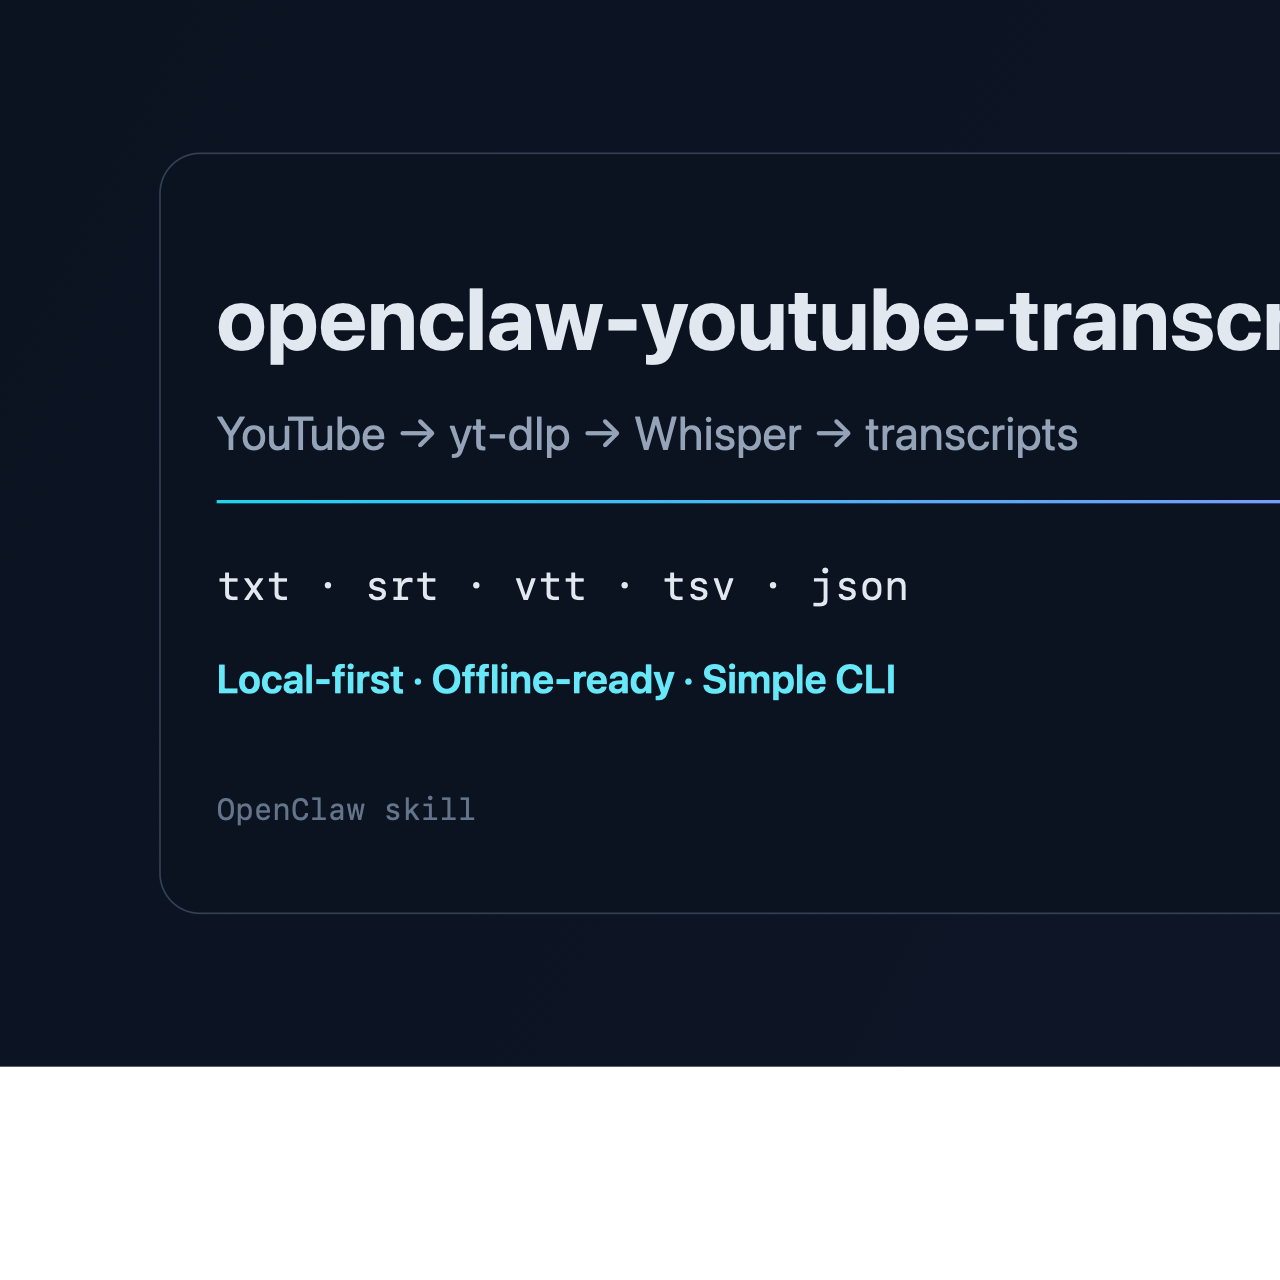
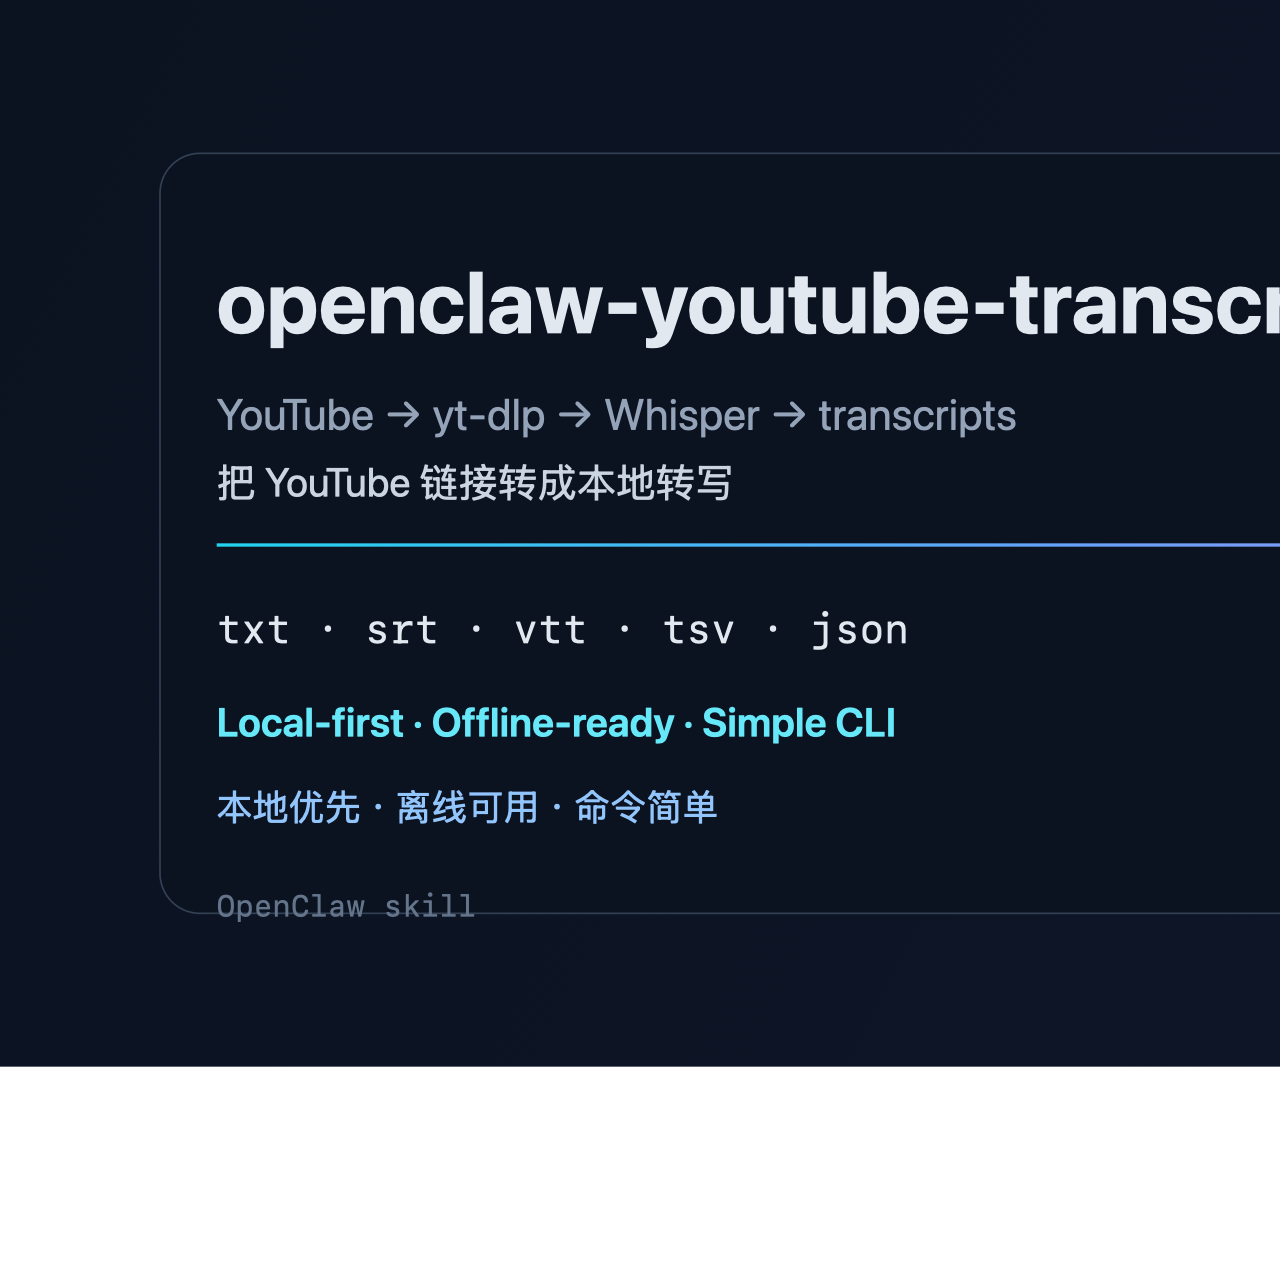
Sanitize example output and update bilingual social preview

diff --git a/examples/example-output.md b/examples/example-output.md
@@ -1,12 +1,12 @@
 # Example output
 
-This page shows a real example of the skill running on a public YouTube video.
+This page shows a **sanitized example** of how the skill organizes files and what a transcript output may look like.
 
 ## Example command
 
 ```bash
 ./skills/youtube-transcribe/scripts/transcribe_youtube.sh \
-  "https://www.youtube.com/watch?v=vimU_EHAuAs" \
+  "https://www.youtube.com/watch?v=EXAMPLE_ID" \
   --lang zh \
   --model small
 ```
@@ -15,7 +15,7 @@ This page shows a real example of the skill running on a public YouTube video.
 
 ```text
 ${HOME}/Documents/youtube-transcripts/
-  比特币现在下结论看大跌为时过早，回踩依旧可能大 [vimU_EHAuAs]/
+  Example Video Title [EXAMPLE_ID]/
     audio/
       audio.m4a
       audio.info.json
@@ -27,21 +27,19 @@ ${HOME}/Documents/youtube-transcripts/
       audio.json
 ```
 
-## Transcript excerpt
+## Example transcript excerpt
 
-Excerpt from `audio.txt`:
+Excerpt from `audio.txt` (illustrative only):
 
-> 大家好,我是依依,現在是新加坡時間早上的8點42分  
-> 比特幣限價位於7萬1000多,這個價格區域位置  
-> 在過去的行情當中,我們都是以看漲為主  
-> 在昨天的視頻當中,我們明確說明了智力選擇性可能回調  
-> 還是說智力繼續開始下跌  
-> 我們要關注周限級別能否站穩這個通道之上  
-> 但是也關鍵的要位於這個72800需求其實點跌破  
-> 說明結構已經轉空,我們發現從昨天的7萬4000多跌下來
+> Hello everyone, welcome back.  
+> In this video we walk through the main idea step by step.  
+> First, let's review the current situation and key assumptions.  
+> Then we compare a few possible outcomes and their trade-offs.  
+> Finally, we summarize the most practical next actions.
 
 ## Notes
 
 - The first Whisper run can take longer because the model may need to be downloaded first.
 - CPU-only machines work fine, but transcription is slower than on GPU-backed setups.
-- The exact wording in transcripts can vary a bit with model choice and language settings.
+- Exact wording varies by video, model, and language settings.
+- This page uses a sanitized sample instead of a real transcript excerpt from a previously processed video.

diff --git a/examples/example-output.zh-CN.md b/examples/example-output.zh-CN.md
@@ -1,12 +1,12 @@
 # 示例输出
 
-这一页展示一个公开 YouTube 视频的真实运行样例。
+这一页展示的是一个**脱敏后的示例**，用于说明这个 skill 的输出结构，以及转写文本大概会长什么样。
 
 ## 示例命令
 
 ```bash
 ./skills/youtube-transcribe/scripts/transcribe_youtube.sh \
-  "https://www.youtube.com/watch?v=vimU_EHAuAs" \
+  "https://www.youtube.com/watch?v=EXAMPLE_ID" \
   --lang zh \
   --model small
 ```
@@ -15,7 +15,7 @@
 
 ```text
 ${HOME}/Documents/youtube-transcripts/
-  比特币现在下结论看大跌为时过早，回踩依旧可能大 [vimU_EHAuAs]/
+  Example Video Title [EXAMPLE_ID]/
     audio/
       audio.m4a
       audio.info.json
@@ -27,21 +27,19 @@ ${HOME}/Documents/youtube-transcripts/
       audio.json
 ```
 
-## 转写片段
+## 示例转写片段
 
-摘自 `audio.txt`：
+摘自 `audio.txt`（仅为示意，不对应真实已处理视频内容）：
 
-> 大家好,我是依依,現在是新加坡時間早上的8點42分  
-> 比特幣限價位於7萬1000多,這個價格區域位置  
-> 在過去的行情當中,我們都是以看漲為主  
-> 在昨天的視頻當中,我們明確說明了智力選擇性可能回調  
-> 還是說智力繼續開始下跌  
-> 我們要關注周限級別能否站穩這個通道之上  
-> 但是也關鍵的要位於這個72800需求其實點跌破  
-> 說明結構已經轉空,我們發現從昨天的7萬4000多跌下來
+> 大家好，欢迎回来。  
+> 这一段内容主要是按步骤说明核心观点。  
+> 先回顾当前情况和几个关键前提。  
+> 然后比较几种可能的走向以及它们各自的取舍。  
+> 最后总结更实用的下一步行动。
 
 ## 说明
 
 - 第一次运行 Whisper 可能会更慢，因为需要先下载模型。
 - 纯 CPU 机器也能正常运行，只是速度会比 GPU 慢。
-- 不同模型和语言参数下，转写内容可能会有些细微差异。
+- 实际转写内容会随着视频、模型和语言参数不同而变化。
+- 这里使用的是脱敏示例，而不是之前处理过的真实视频转写片段。
